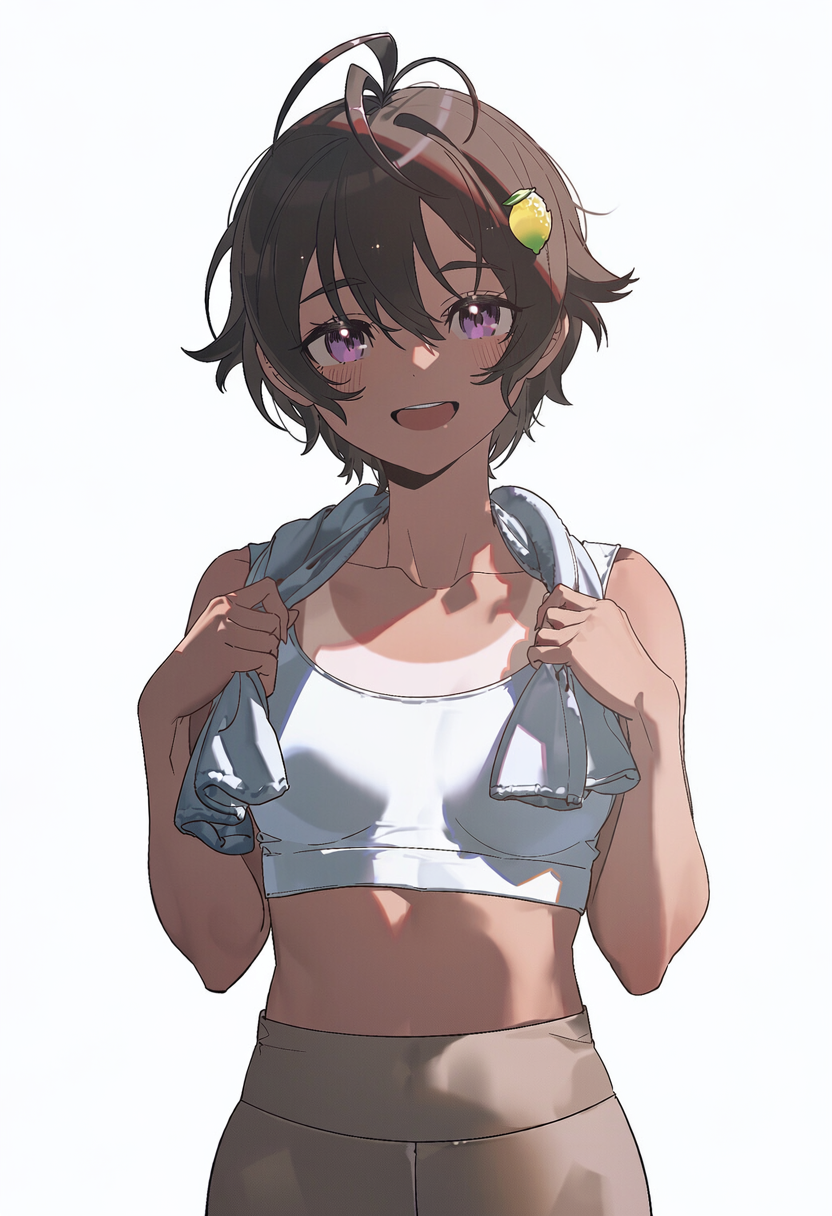
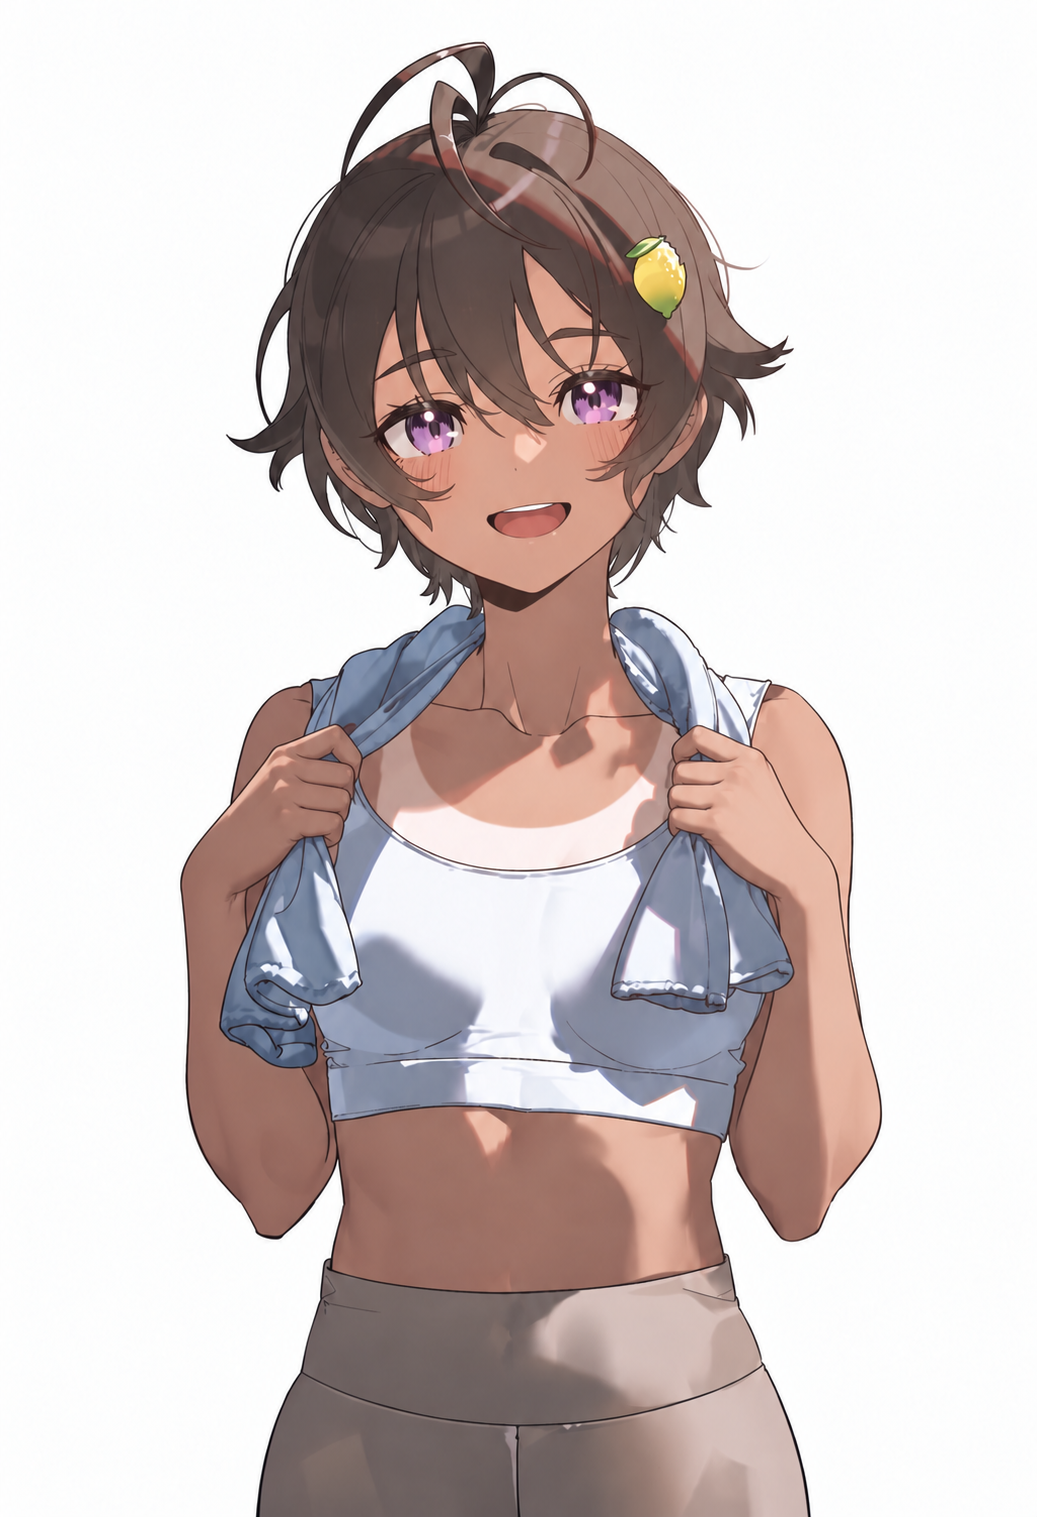
Update 烧盐柠檬 default portrait

diff --git a/images/portraits/makeine/yakishio-lemon/README.md b/images/portraits/makeine/yakishio-lemon/README.md
@@ -1,11 +1,20 @@
 # 烧盐柠檬 · 常规立绘
 
 - 当前文件：[default.png](default.png)。
-- 用户选定原图：`1girl, solo,__0.3__artist_letdie1414 __,_1.3__artist_ame (uten cancel), artist_r s-434466137 (1).png`。
-- 尺寸：832 × 1216；大小：1,179,094 字节。
[1 lines of base64/hex data omitted]
-- PNG 模型记录：NovelAI Diffusion V5 0ADF9AB7。
-- 可读取的生成参数：seed 434466137；steps 28；scale 6.0；cfg_rescale 0.0；sampler k_euler_ancestral；noise_schedule karras。
-- 原图字节及内嵌数据完整保留，没有裁切、缩放、抠图或重新编码。
+- 用户选定原图：`yakishio-lemon-face-hands-edited.png`。
+- 尺寸：1037 × 1517；大小：1,498,781 字节。
[1 lines of base64/hex data omitted]
+- PNG 模型记录：未知。
+- 可读取的生成参数：seed 未知；steps 未知；scale 未知；cfg_rescale 未知；sampler 未知；noise_schedule 未知。
+- 上传保留用户选定修复成稿的完整字节；上传阶段未裁剪、缩放、抠图或重绘。
 - 当前默认形象的运行时引用以状态栏 portraitsSB 为准；不随剧情着装自动切换。
 - 图片选定不代替真实 SillyTavern 与实际设备显示验收。
+
+## 本次选定版本
+
+- 用户选定 Codex 内置图像工具连续局部修复后的版本：减轻脸部过重阴影、保留小麦肤色，再修整双手握毛巾时的手指、拇指及手腕衔接。
+- 保持既定动作、服装与取景，修复成稿为 1037 × 1517；上传时未再次裁剪或缩放。
[1 lines of base64/hex data omitted]
+- 原始生成模型：NovelAI Diffusion V5 0ADF9AB7；参数：seed 434466137；steps 28；scale 6.0；cfg_rescale 0.0；sampler k_euler_ancestral；noise_schedule karras。
+- 当前编辑成稿没有可读取的模型版本和 seed；原始 NovelAI 参数不能直接复现两次修复后的图片。
+- 当前 default.png 已由该修复版替换；历史版本仍可从 Git 历史追溯。
